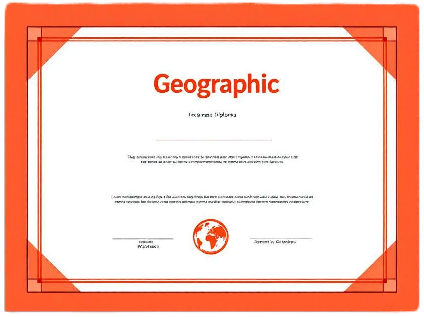
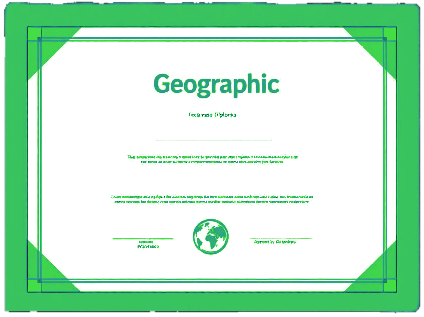
change colors and add font modern

diff --git a/styles/custom.css b/styles/custom.css
@@ -1,8 +1,9 @@
 @charset "UTF-8";
 
 :root {
-  --color1: #FC8679;
-  --color2: #FF4946;
+  --color1: #60E900;
+  --color2: #aceb0f;
+  --color3: gray; /* FFF017 */
 }
 
 @font-face {
@@ -15,6 +16,7 @@
   box-sizing: border-box;
   scroll-behavior: smooth;
   -webkit-tap-highlight-color: transparent;
+  font-family: arial, helvetica, sans-serif;
 }
 #left-img {
   display: none;
@@ -118,7 +120,7 @@ section#alunos {
 }
 section#alunos h4 {
   margin-bottom: 40px;
-  color: var(--color1);
+  color: var(--color2);
   font-size: 1.6em;
   font-family: 'Geo';
 }
@@ -145,11 +147,11 @@ section#professor p {
   padding: 10px 10px 0 10px;
 }
 section#professor strong {
-  color: var(--color2);
+  color: var(--color3);
 }
 footer {
   text-align: center;
-  background-color: var(--color1);
+  background-color: var(--color3);
   height: 300px;
   color: #fff;
 }
@@ -160,7 +162,7 @@ footer a {
 }
 #chamada {
   padding: 20px;
-  background-color: var(--color1);
+  background-color: var(--color3);
 }
 #diploma {
   margin: 20px;
@@ -174,10 +176,18 @@ footer a {
   background-color: #fff;
   padding: 17px 5px 5px 5px;
   border: 2px solid #fff;
-  color: var(--color1);
+  color: var(--color3);
   height: 60px;
   width: 100px;
-  font: normal normal .8em arial, helvetica, sans-serif;
+  font: normal normal .8em arial, helvetica, @charset "UTF-8";
+
+* {
+  margin: 0;
+  padding: 0;
+  box-sizing: border-box;
+  scroll-behavior: smooth;
+  -webkit-tap-highlight-color: transparent;
+}sans-serif;
 }
 #chamada a:hover {
   box-shadow: 0px 0px 15px #fff;
@@ -185,7 +195,7 @@ footer a {
   transition-duration: .2s;
 }
 section#menu {
-  background-color: var(--color1);
+  background-color: var(--color3);
   padding: 20px;
 }
 section#menu ul {
@@ -198,7 +208,7 @@ section#redes h1 {
   padding: 20px 0 0 0;
 }
 section#redes {
-  background-color: var(--color1);
+  background-color: var(--color3);
 }
 #redes ul {
   padding: 10px 0 10px 0;
@@ -211,7 +221,7 @@ section#redes {
   padding: 20px 0 20px 0;
 }
 #direitos {
-  background-color: var(--color1);
+  background-color: var(--color3);
   height: 70px;
   text-align: center;
   display: flex;

diff --git a/styles/media-q.css b/styles/media-q.css
@@ -1,8 +1,9 @@
 @charset "UTF-8";
 
 :root {
-  --color1: #FC8679;
-  --color2: #FFA166;
+  --color1: #60E900;
+  --color2: #aceb0f;
+  --color3: gray;
 }
 
 * {
